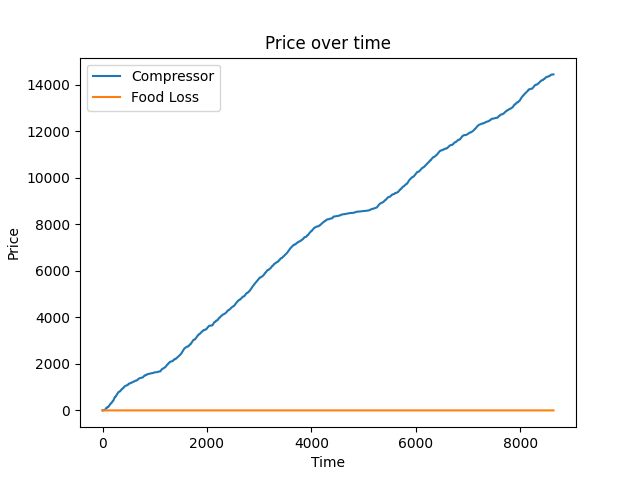
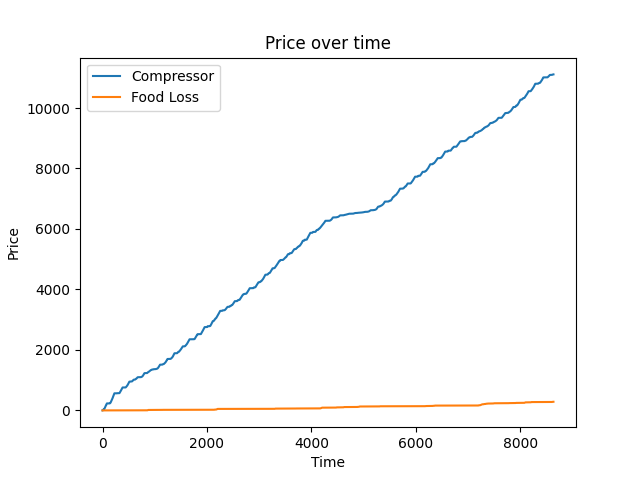
Fuck doctest

diff --git a/GrundlæggendeProgrammering/workshops/kølerum/cooling_room.py b/GrundlæggendeProgrammering/workshops/kølerum/cooling_room.py
@@ -11,12 +11,38 @@ class Door:
     def __init__(self, is_open: bool = False) -> None:
         self.is_open = is_open
 
+        self._closed_factor = 5e-7
+        self._open_factor = 3e-5
+
     def shuffle(self) -> None:
         """
         10% Chance of the door being open
         :return: None
+
+        >>> import random
+        >>> random.seed(0)
+        >>> door = Door()
+        >>> door.shuffle()
+        >>> door.is_open
+        False
         """
         self.is_open = random() < 0.1
+
+    @property
+    def temp_factor(self) -> float:
+        """
+        Return the temperature factor based on the door state
+        :return: The temperature factor
+
+        >>> door = Door()
+        >>> door.is_open = False
+        >>> door.temp_factor
+        5e-07
+        >>> door.is_open = True
+        >>> door.temp_factor
+        3e-05
+        """
+        return self._open_factor if self.is_open else self._closed_factor
 
 
 class Food:
@@ -29,6 +55,14 @@ class Food:
         :param temp: The current temperature
         :param delta_t: Amount of time passed since last update
         :return: None
+
+        >>> food = Food()
+        >>> food.deteriorate(5)
+        >>> food.losses
+        0
+        >>> food.deteriorate(10)
+        >>> food.losses
+        2.44177464095858
         """
         if 3.5 <= temp < 6.5:
             # No deterioration between 3.5 and 6.5 degrees
@@ -91,9 +125,6 @@ class CoolingRoom:
 
         self._ambient_temp = 20
 
-        self._ambient_door_closed = 5e-7
-        self._ambient_door_open = 3e-5
-
     @property
     def total_cost(self) -> float:
         return self.compressor.cost + self.food.losses
@@ -118,15 +149,14 @@ class CoolingRoom:
         :return: None
         """
         temp = self.temp
-
-        if self.door.is_open:
-            temp += self._ambient_door_open * (self._ambient_temp - self.temp) * delta_t
-        else:
-            temp += (
-                self._ambient_door_closed * (self._ambient_temp - self.temp) * delta_t
-            )
-
+        temp += self.door.temp_factor * (self._ambient_temp - self.temp) * delta_t
         temp += (
             self.compressor.temp_factor * (self.compressor.temp - self.temp) * delta_t
         )
         self.temp = temp
+        return "hej"
+
+
+if __name__ == "__main__":
+    import doctest
+    doctest.testmod()

diff --git a/GrundlæggendeProgrammering/workshops/kølerum/thermostat.py b/GrundlæggendeProgrammering/workshops/kølerum/thermostat.py
@@ -50,9 +50,7 @@ class LocalAverageThermostat(Thermostat):
             raise ValueError("Electric prices not set")
 
         current_price = self.electric_prices.iloc[i]
-        local_avg = self.electric_prices.iloc[
-            max(0, i - 5) : min(i + 5, len(self.electric_prices) - 1)
-        ].mean()
+        local_avg = self.electric_prices.iloc[max(0, i - 3): i + 5].mean()
 
         if self.cooling_room.temp >= 6.4:
             return True
@@ -74,11 +72,7 @@ class FutureMinAverageThermostat(Thermostat):
             raise ValueError("Electric prices not set")
 
         current_price = self.electric_prices.iloc[i]
-        near_future_min = self.electric_prices.iloc[
-            min(i + 1, len(self.electric_prices) - 1) : min(
-                i + 3, len(self.electric_prices) - 1
-            )
-        ].min()
+        near_future_min = self.electric_prices.iloc[i: i + 3].min()
 
         if self.cooling_room.temp >= 6.4:
             return True
@@ -100,14 +94,8 @@ class CombinatoricSmartThermostat(Thermostat):
             raise ValueError("Electric prices not set")
 
         current_price = self.electric_prices.iloc[i]
-        local_avg = self.electric_prices.iloc[
-            max(0, i - 5) : min(i + 5, len(self.electric_prices) - 1)
-        ].mean()
-        near_future_min = self.electric_prices.iloc[
-            min(i + 1, len(self.electric_prices) - 1) : min(
-                i + 3, len(self.electric_prices) - 1
-            )
-        ].min()
+        local_avg = self.electric_prices.iloc[max(0, i - 3): i + 5].mean()
+        near_future_min = self.electric_prices.iloc[i: i + 3].min()
 
         if self.cooling_room.temp >= 6.4:
             return True

diff --git a/GrundlæggendeProgrammering/workshops/kølerum/main.py b/GrundlæggendeProgrammering/workshops/kølerum/main.py
@@ -1,26 +1,46 @@
 from cooling_room import CoolingRoom, Compressor, Door, Food
-from thermostat import (
-    SimpleThermostat,
-    LocalAverageThermostat,
-    CombinatoricSmartThermostat,
-    FutureMinAverageThermostat,
-)
+from thermostat import SimpleThermostat, CombinatoricSmartThermostat
 from simulator import CoolerSimulator
 from dataplotter import DataPlotter
 import pandas as pd
+
+
+def optimize_simple_thermostat() -> None:
+    prices = pd.read_csv("elpris.csv")["Pris"]
+
+    cheapest_cost = float("inf")
+    best_temp = 0
+    for target_temp in range(35, 85):
+        thermostat = SimpleThermostat(target_temp=target_temp/10)
+        room = CoolingRoom(
+            compressor=Compressor(electric_prices=prices),
+            thermostat=thermostat,
+            food=Food(),
+            door=Door(),
+            temp=5,
+        )
+        simulator = CoolerSimulator(room)
+        res = simulator.simulate()
+        total_cost = res["Total Cost"].iloc[-1]
+        if total_cost < cheapest_cost:
+            cheapest_cost = total_cost
+            best_temp = target_temp
+
+    print("Best temperature:", best_temp/10)
 
 
 def main():
     prices = pd.read_csv("elpris.csv")["Pris"]
     room = CoolingRoom(
         compressor=Compressor(electric_prices=prices),
-        thermostat=SimpleThermostat(),
+        thermostat=CombinatoricSmartThermostat(electric_prices=prices),
         food=Food(),
         door=Door(),
         temp=5,
     )
     simulator = CoolerSimulator(room)
     res = simulator.simulate()
+    print(res)
     plotter = DataPlotter(res)
     plotter.plot_prices()
 

diff --git a/GrundlæggendeProgrammering/workshops/kølerum/test.py b/GrundlæggendeProgrammering/workshops/kølerum/test.py
@@ -103,7 +103,6 @@ class TestCoolingRoom(TestCase):
         self.thermostat.recommended_compressor_state.assert_called_once_with(0)
         self.assertTrue(self.compressor.is_on, "Compressor did not turn on")
         self.room.update_temp.assert_called_once()
-        # self.food.detoriate.assert_called_once_with(self.room.temp)
 
 
 if __name__ == "__main__":
